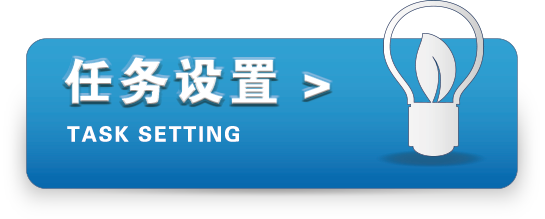
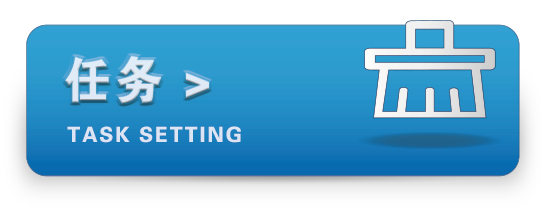
更新ui

diff --git a/LoginPage.qml b/LoginPage.qml
@@ -29,27 +29,11 @@ Item{
     }
     Image {
         id: img_background
-        source: "qrc:/res/ui/background/login.png"
+        source: "qrc:/res/pictures/login_background.png"
         width: parent.width
         height: parent.height
     }
-//    Rectangle {
-//        id: rect_logo
-//        width: parent.width
-//        height: parent.height * 0.25
-//        color: "transparent"
-//        Image {
-//            id: img_logo
-//            source: "qrc:/res/pictures/logo.png"
-//            width: parent.width
-//            height: parent.height * 0.5
-//            fillMode: Image.PreserveAspectFit
-//            anchors {
-//                horizontalCenter: parent.horizontalCenter
-//                bottom: parent.bottom
-//            }
-//        }
-//    }
+
     Rectangle {
         id: rect_login
         width: parent.width * 0.4
@@ -58,23 +42,22 @@ Item{
         anchors {
             horizontalCenter: parent.horizontalCenter
             verticalCenter: parent.verticalCenter
+
         }
-//        Label {
-//            id: lab_name
-//            width: rect_login.width
-//            height: rect_login.height * 0.15
-//            text: qsTr("tonglu")
-//            horizontalAlignment: Text.AlignHCenter
-//            verticalAlignment: Text.AlignVCenter
-//            font.bold: true
-//            font.pixelSize: height * 0.5
-//            font.family: font_hanzhen.name
-//            anchors{
-//                top: parent.top
-//                topMargin: parent.height * 0.18
-//            }
-//            color: "#004e8c"
-//        }
+        Image {
+            id: name
+            source: "qrc:/res/pictures/logo_2.png"
+            width: parent.width * 0.4
+            height: parent.height * 0.15
+            fillMode: Image.PreserveAspectFit
+                anchors{
+                    top:parent.top
+                    topMargin: parent.height * 0.19
+                    horizontalCenter: parent.horizontalCenter
+                }
+
+        }
+
 
         Rectangle {
             id: rect_main
@@ -82,65 +65,43 @@ Item{
             height: parent.height * 0.8
             anchors{
                 top:parent.top
-                topMargin: height * 0.3
+                topMargin: height * 0.47
                 horizontalCenter: parent.horizontalCenter
             }
             color: "transparent"
 
-
             Rectangle {
                 id: rect_username
                 width: parent.width * 0.95
-                height: parent.height * 0.25
+                height: parent.height * 0.23
                 color:"transparent"
                 anchors{
                     left: parent.left
-                    leftMargin: width * 0.3
+                    leftMargin: width * 0.1
                     top: parent.top
-                    topMargin: parent.height * 0.04
+                    //topMargin: parent.height * 0.04
                 }
-//                Label {
-//                    id: lab_user
-//                    width: parent.width * 0.3
-//                    height: parent.height
-//                    text: qsTr("username")
-//                    horizontalAlignment: Text.AlignRight
-//                    verticalAlignment: Text.AlignVCenter
-//                    font.pixelSize: height * 0.4
-//                    anchors{
-//                        top: parent.top
-//                    }
-//                    color: "#006abe"
-//                }
-//                TLTextField {
-//                    id: username
-//                    width: parent.width * 0.55
-//                    height: parent.height * 0.8
-//                    anchors {
-//                        verticalCenter: parent.verticalCenter
-//                        left: parent.left
-//                        leftMargin: parent.width * 0.1
-//                        top: parent.top
-//                    }
-//                    text: root._default_test_user
-//                    placeholderText: qsTr("enter your username.")
-//                    pic_name: "qrc:/res/pictures/username.png"
-//                    btn_radius: height * 0.1
-//                    validator: RegExpValidator{regExp:/^.[A-Za-z0-9_]{0,11}$/}
-//                }
-                TextField {
+
+                TLTextField {
                     id: username
-                    width: parent.width * 0.55
+                    width: parent.width * 0.7
                     height: parent.height * 0.8
+                    Image {
+                        id: login_user
+                        source: "qrc:/res/pictures/login_user.png"
+                        //fillMode: Image.PreserveAspectFit
+                        width: parent.width * 0.15
+                        height: parent.height * 0.95
+                        anchors.left: parent.left
+                    }
+                    anchors{
+                        left: parent.left
+                        leftMargin: parent.width * 0.1
+                    }
                     text: root._default_test_user
                     placeholderText: qsTr("enter your username.")
                     validator: RegExpValidator{regExp:/^.[A-Za-z0-9_]{0,11}$/}
-                    background: Rectangle{
-                        anchors.fill: parent
-                        color: "transparent"
-                    }
-                    color: "white"
-                    font.pixelSize: height * 0.5
+
                 }
             }
             Rectangle {
@@ -152,40 +113,83 @@ Item{
                     top: rect_username.bottom
                     topMargin: parent.height * 0.06
                     left: parent.left
-                    leftMargin: width * 0.3
+                    leftMargin: width * 0.1
                 }
-                TextField {
+                TLTextField {
                     id: password
-                    width: parent.width * 0.55
+                    width: parent.width * 0.7
                     height: parent.height * 0.8
+                    Image {
+                        id: login_passwd
+                        source: "qrc:/res/pictures/login_passwd.png"
+                        width: parent.width * 0.15
+                        height: parent.height * 0.95
+                        fillMode: Image.PreserveAspectFit
+                        anchors.left: parent.left
+                        anchors.leftMargin: parent.width * 0.01
+                    }
+                    anchors{
+                        left: parent.left
+                        leftMargin: parent.width * 0.1
+                    }
                     text: root._default_test_user
                     placeholderText: qsTr("enter your password.")
                     validator: RegExpValidator{regExp:/^.[A-Za-z0-9_]{0,11}$/}
-                    background: Rectangle{
-                        anchors.fill: parent
-                        color: "transparent"
-                    }
+
                     echoMode: TextInput.Password
-                    color: "white"
-                    font.pixelSize: height * 0.5
                 }
             }
 
-            MouseArea {
-                id: btn_ok
-                width: rect_login.width * 0.635
-                height: rect_login.height * 0.15
+            Rectangle{
+//                width: rect_login.width * 0.12
+//                height: rect_login.height * 0.15
+                radius: rect_login.width * 0.02
+                width: rect_login.width * 0.3
+                height: rect_login.height * 0.12
+                color: "#1874CD"
                 anchors {
                     top: rect_pwd.bottom
-                    topMargin: parent.height * 0.02
+                    topMargin: parent.height * 0.01
 
                     horizontalCenter: parent.horizontalCenter
                     horizontalCenterOffset: parent.width * 0.022
-
                 }
+
+//                Image {
+//                    id: login_ok
+//                    //source: "qrc:/res/pictures/login_ok1.png"
+//                    width: parent.width
+//                    height: parent.height
+//                    width: parent.width * 0.8
+//                    height: parent.height * 0.9
+//                    fillMode: Image.PreserveAspectFit
+                    Text {
+                        id: login_button
+                        text: qsTr("登 录")
+                        font.pixelSize: 12
+                        anchors.horizontalCenter: parent.horizontalCenter
+                        color: "white"
+                    }
+
+//                }
+            MouseArea {
+                id: btn_ok
+                anchors.fill:parent
+//                width: rect_login.width * 0.635
+//                height: rect_login.height * 0.15
+//
+//                anchors {
+//                    top: rect_pwd.bottom
+//                    topMargin: parent.height * 0.02
+//
+//                    horizontalCenter: parent.horizontalCenter
+//                    horizontalCenterOffset: parent.width * 0.022
+//                }
+
                 onClicked: {
                     if (root._login_faild_time < 3 ) {
                         account_manager.accountLogin(username.text, password.text)
+
                     } else {
                         ++ root._login_faild_time
                         message_login_faild.dia_title = qsTr("login failed!")
@@ -194,6 +198,7 @@ Item{
                     }
                 }
             }
+        }
         }
     }
 }

diff --git a/MenuPage.qml b/MenuPage.qml
@@ -16,19 +16,20 @@ ListView {
     delegate: ItemDelegate {
         id: item
         z:1
-        height: root._level <= 1 ? root.height / 4 : root.height / 7
+        height: root._level <= 1 ? root.height / 5 : root.height / 6
         width: parent.width
         property real id_num: model.id_num
         Rectangle {
             anchors.fill: parent
-            color: item.focus ? "#191970" : "transparent"
+            //color: item.focus ? "#191970" : "transparent"
+            color: "transparent"
 
             Image {
                 id: img_background
                 z:1
                 source:item.focus ? model.focus_source: model.no_focus_source
                 anchors.fill: parent
-                opacity: item.focus ? 1: 0.3
+                opacity: item.focus ? 1: 0.5
                 fillMode: Image.PreserveAspectFit
                 horizontalAlignment: Image.AlignHCenter
             }
@@ -49,17 +50,17 @@ ListView {
         Component.onCompleted: {
             root._level = account_manager.getCurrentUserLevel()
             if (root._level <= 1) {
-                user_lit_model.append({"id_num": 0, "no_focus_source": "qrc:/res/ui/menu/home_off.png", "focus_source": ""})
-                user_lit_model.append({"id_num": 1, "no_focus_source": "qrc:/res/ui/menu/clean_off.png", "focus_source": "qrc:/res/ui/menu/clean_on.png"})
-                user_lit_model.append({"id_num": 2, "no_focus_source": "qrc:/res/ui/menu/help_off.png", "focus_source": "qrc:/res/ui/menu/help_on.png"})
-                user_lit_model.append({"id_num": 3, "no_focus_source": "qrc:/res/ui/menu/about_off.png", "focus_source": "qrc:/res/ui/menu/about_on.png"})
+                user_lit_model.append({"id_num": 0, "no_focus_source": "qrc:/res/pictures/home.png", "focus_source": "qrc:/res/pictures/home.png"})
+                user_lit_model.append({"id_num": 1, "no_focus_source": "qrc:/res/pictures/task.png", "focus_source": "qrc:/res/pictures/task.png"})
+                user_lit_model.append({"id_num": 2, "no_focus_source": "qrc:/res/pictures/help.png", "focus_source": "qrc:/res/pictures/help.png"})
+                user_lit_model.append({"id_num": 3, "no_focus_source": "qrc:/res/pictures/about.png", "focus_source": "qrc:/res/pictures/about.png"})
             } else {
-                user_lit_model.append({"id_num": 0, "no_focus_source": "qrc:/res/ui/menu/home_off.png", "focus_source": "qrc:/res/ui/menu/home_on.png"})
-                user_lit_model.append({"id_num": 4, "no_focus_source": "qrc:/res/ui/menu/user_off.png", "focus_source": "qrc:/res/ui/menu/user_on.png"})
-                user_lit_model.append({"id_num": 1, "no_focus_source": "qrc:/res/ui/menu/clean_off.png", "focus_source": "qrc:/res/ui/menu/clean_on.png"})
-                user_lit_model.append({"id_num": 2, "no_focus_source": "qrc:/res/ui/menu/help_off.png", "focus_source": "qrc:/res/ui/menu/help_on.png"})
-                user_lit_model.append({"id_num": 3, "no_focus_source": "qrc:/res/ui/menu/about_off.png", "focus_source": "qrc:/res/ui/menu/about_on.png"})
-                user_lit_model.append({"id_num": 5, "no_focus_source": "qrc:/res/ui/menu/mapping_off.png", "focus_source": "qrc:/res/ui/menu/mapping_on.png"})
+                user_lit_model.append({"id_num": 0, "no_focus_source": "qrc:/res/pictures/home.png", "focus_source": "qrc:/res/pictures/home.png"})
+                user_lit_model.append({"id_num": 4, "no_focus_source": "qrc:/res/pictures/user.png", "focus_source": "qrc:/res/pictures/user.png"})
+                user_lit_model.append({"id_num": 1, "no_focus_source": "qrc:/res/pictures/task.png", "focus_source": "qrc:/res/pictures/task.png"})
+                user_lit_model.append({"id_num": 2, "no_focus_source": "qrc:/res/pictures/help.png", "focus_source": "qrc:/res/pictures/help.png"})
+                user_lit_model.append({"id_num": 3, "no_focus_source": "qrc:/res/pictures/about.png", "focus_source": "qrc:/res/pictures/about.png"})
+                //user_lit_model.append({"id_num": 5, "no_focus_source": "qrc:/res/ui/menu/mapping_off.png", "focus_source": "qrc:/res/ui/menu/mapping_on.png"})
             }
         }
     }

diff --git a/MainPage.qml b/MainPage.qml
@@ -83,7 +83,7 @@ Rectangle {
 
     Image {
         id: img_main_background
-        source: "qrc:/res/ui/background/main.png"
+        source: "qrc:/res/pictures/background_all.png"
         anchors.fill: parent
     }
 
@@ -110,7 +110,7 @@ Rectangle {
             color: "transparent"
             Image {
                 id: menu_background
-                source: "qrc:/res/ui/background/menu.png"
+                //source: "qrc:/res/ui/background/menu.png"
                 anchors.fill: parent
                 z:0
             }
@@ -182,12 +182,12 @@ Rectangle {
                 onLockScreen: {
                     lock_screen_page.pop_lock.open()
                 }
-                Image {
-                    id: img_mission
-                    anchors.fill: parent
-                    source: "qrc:/res/ui/background/mission_bar.png"
-                    fillMode: Image.PreserveAspectCrop
-                }
+//                Image {
+//                    id: img_mission
+//                    anchors.fill: parent
+//                    source: "qrc:/res/ui/background/mission_bar.png"
+//                    fillMode: Image.PreserveAspectCrop
+//                }
             }
             StackView {
                 id: stack_view
